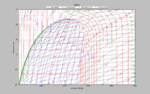
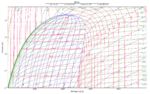
Improved state diagrams layout.

diff --git a/smo/media/diagrams/StateDiagrams.py b/smo/media/diagrams/StateDiagrams.py
@@ -458,7 +458,7 @@ class PHDiagram(StateDiagram):
 	
 	def draw(self, isotherms=True, isochores=True, isentrops=True, qIsolines=True, fig = None):
 		if (fig is None):
-			fig = Figure(figsize=(16.0, 10.0))
+			fig = Figure(figsize=(16.0, 10.0), facecolor='white')
 		self.fig = fig
 		self.ax = self.fig.add_subplot(1,1,1)
 		self.ax.set_xlabel('Enthalpy [kJ/kg]')
@@ -484,6 +484,7 @@ class PHDiagram(StateDiagram):
 			self.plotIsentrops()
 		
 		self.ax.legend(loc='upper center',  bbox_to_anchor=(0.5, 1.05),  fontsize="small", ncol=4)
+		fig.tight_layout()
 		return fig
 	
 	def export(self, fig):
